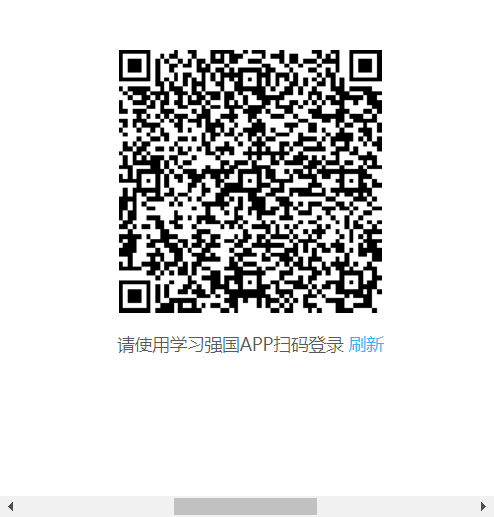
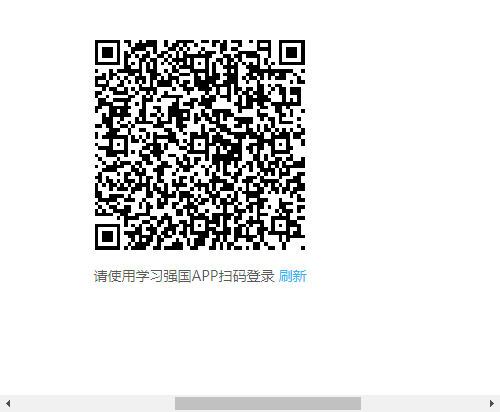
修改去掉一些方法中的警告

diff --git a/Source Packages/pdlearn/user_agent.py b/Source Packages/pdlearn/user_agent.py
@@ -11,75 +11,75 @@ def getheaders():
     :rtype:
     """
     # 各种PC端
-    user_agent_list_2 = [
-        # Opera
-        "Mozilla/5.0 (Windows NT 6.1; WOW64) AppleWebKit/537.36 (KHTML, like Gecko) Chrome/39.0.2171.95 Safari/537.36 OPR/26.0.1656.60",
-        "Opera/8.0 (Windows NT 5.1; U; en)",
-        "Mozilla/5.0 (Windows NT 5.1; U; en; rv:1.8.1) Gecko/20061208 Firefox/2.0.0 Opera 9.50",
-        "Mozilla/4.0 (compatible; MSIE 6.0; Windows NT 5.1; en) Opera 9.50",
-        # Firefox
-        "Mozilla/5.0 (Windows NT 6.1; WOW64; rv:34.0) Gecko/20100101 Firefox/34.0",
-        "Mozilla/5.0 (X11; U; Linux x86_64; zh-CN; rv:1.9.2.10) Gecko/20100922 Ubuntu/10.10 (maverick) Firefox/3.6.10",
-        # Safari
-        "Mozilla/5.0 (Windows NT 6.1; WOW64) AppleWebKit/534.57.2 (KHTML, like Gecko) Version/5.1.7 Safari/534.57.2",
-        # chrome
-        "Mozilla/5.0 (Windows NT 6.1; WOW64) AppleWebKit/537.36 (KHTML, like Gecko) Chrome/39.0.2171.71 Safari/537.36",
-        "Mozilla/5.0 (X11; Linux x86_64) AppleWebKit/537.11 (KHTML, like Gecko) Chrome/23.0.1271.64 Safari/537.11",
-        "Mozilla/5.0 (Windows; U; Windows NT 6.1; en-US) AppleWebKit/534.16 (KHTML, like Gecko) Chrome/10.0.648.133 Safari/534.16",
-        # 360
-        "Mozilla/5.0 (Windows NT 6.1; WOW64) AppleWebKit/537.36 (KHTML, like Gecko) Chrome/30.0.1599.101 Safari/537.36",
-        "Mozilla/5.0 (Windows NT 6.1; WOW64; Trident/7.0; rv:11.0) like Gecko",
-        # 淘宝浏览器
-        "Mozilla/5.0 (Windows NT 6.1; WOW64) AppleWebKit/536.11 (KHTML, like Gecko) Chrome/20.0.1132.11 TaoBrowser/2.0 Safari/536.11",
-        # 猎豹浏览器
-        "Mozilla/5.0 (Windows NT 6.1; WOW64) AppleWebKit/537.1 (KHTML, like Gecko) Chrome/21.0.1180.71 Safari/537.1 LBBROWSER",
-        "Mozilla/5.0 (compatible; MSIE 9.0; Windows NT 6.1; WOW64; Trident/5.0; SLCC2; .NET CLR 2.0.50727; .NET CLR 3.5.30729; .NET CLR 3.0.30729; Media Center PC 6.0; .NET4.0C; .NET4.0E; LBBROWSER)",
-        "Mozilla/4.0 (compatible; MSIE 6.0; Windows NT 5.1; SV1; QQDownload 732; .NET4.0C; .NET4.0E; LBBROWSER)",
-        # QQ浏览器
-        "Mozilla/5.0 (compatible; MSIE 9.0; Windows NT 6.1; WOW64; Trident/5.0; SLCC2; .NET CLR 2.0.50727; .NET CLR 3.5.30729; .NET CLR 3.0.30729; Media Center PC 6.0; .NET4.0C; .NET4.0E; QQBrowser/7.0.3698.400)",
-        "Mozilla/4.0 (compatible; MSIE 6.0; Windows NT 5.1; SV1; QQDownload 732; .NET4.0C; .NET4.0E)",
-        # sogou浏览器
-        "Mozilla/5.0 (Windows NT 5.1) AppleWebKit/535.11 (KHTML, like Gecko) Chrome/17.0.963.84 Safari/535.11 SE 2.X MetaSr 1.0",
-        "Mozilla/4.0 (compatible; MSIE 7.0; Windows NT 5.1; Trident/4.0; SV1; QQDownload 732; .NET4.0C; .NET4.0E; SE 2.X MetaSr 1.0)",
-        # maxthon浏览器
-        "Mozilla/5.0 (Windows NT 6.1; WOW64) AppleWebKit/537.36 (KHTML, like Gecko) Maxthon/4.4.3.4000 Chrome/30.0.1599.101 Safari/537.36",
-        # UC浏览器
-        "Mozilla/5.0 (Windows NT 6.1; WOW64) AppleWebKit/537.36 (KHTML, like Gecko) Chrome/38.0.2125.122 UBrowser/4.0.3214.0 Safari/537.36",
-    ]
+    # user_agent_list_2 = [
+    #     # Opera
+    #     "Mozilla/5.0 (Windows NT 6.1; WOW64) AppleWebKit/537.36 (KHTML, like Gecko) Chrome/39.0.2171.95 Safari/537.36 OPR/26.0.1656.60",
+    #     "Opera/8.0 (Windows NT 5.1; U; en)",
+    #     "Mozilla/5.0 (Windows NT 5.1; U; en; rv:1.8.1) Gecko/20061208 Firefox/2.0.0 Opera 9.50",
+    #     "Mozilla/4.0 (compatible; MSIE 6.0; Windows NT 5.1; en) Opera 9.50",
+    #     # Firefox
+    #     "Mozilla/5.0 (Windows NT 6.1; WOW64; rv:34.0) Gecko/20100101 Firefox/34.0",
+    #     "Mozilla/5.0 (X11; U; Linux x86_64; zh-CN; rv:1.9.2.10) Gecko/20100922 Ubuntu/10.10 (maverick) Firefox/3.6.10",
+    #     # Safari
+    #     "Mozilla/5.0 (Windows NT 6.1; WOW64) AppleWebKit/534.57.2 (KHTML, like Gecko) Version/5.1.7 Safari/534.57.2",
+    #     # chrome
+    #     "Mozilla/5.0 (Windows NT 6.1; WOW64) AppleWebKit/537.36 (KHTML, like Gecko) Chrome/39.0.2171.71 Safari/537.36",
+    #     "Mozilla/5.0 (X11; Linux x86_64) AppleWebKit/537.11 (KHTML, like Gecko) Chrome/23.0.1271.64 Safari/537.11",
+    #     "Mozilla/5.0 (Windows; U; Windows NT 6.1; en-US) AppleWebKit/534.16 (KHTML, like Gecko) Chrome/10.0.648.133 Safari/534.16",
+    #     # 360
+    #     "Mozilla/5.0 (Windows NT 6.1; WOW64) AppleWebKit/537.36 (KHTML, like Gecko) Chrome/30.0.1599.101 Safari/537.36",
+    #     "Mozilla/5.0 (Windows NT 6.1; WOW64; Trident/7.0; rv:11.0) like Gecko",
+    #     # 淘宝浏览器
+    #     "Mozilla/5.0 (Windows NT 6.1; WOW64) AppleWebKit/536.11 (KHTML, like Gecko) Chrome/20.0.1132.11 TaoBrowser/2.0 Safari/536.11",
+    #     # 猎豹浏览器
+    #     "Mozilla/5.0 (Windows NT 6.1; WOW64) AppleWebKit/537.1 (KHTML, like Gecko) Chrome/21.0.1180.71 Safari/537.1 LBBROWSER",
+    #     "Mozilla/5.0 (compatible; MSIE 9.0; Windows NT 6.1; WOW64; Trident/5.0; SLCC2; .NET CLR 2.0.50727; .NET CLR 3.5.30729; .NET CLR 3.0.30729; Media Center PC 6.0; .NET4.0C; .NET4.0E; LBBROWSER)",
+    #     "Mozilla/4.0 (compatible; MSIE 6.0; Windows NT 5.1; SV1; QQDownload 732; .NET4.0C; .NET4.0E; LBBROWSER)",
+    #     # QQ浏览器
+    #     "Mozilla/5.0 (compatible; MSIE 9.0; Windows NT 6.1; WOW64; Trident/5.0; SLCC2; .NET CLR 2.0.50727; .NET CLR 3.5.30729; .NET CLR 3.0.30729; Media Center PC 6.0; .NET4.0C; .NET4.0E; QQBrowser/7.0.3698.400)",
+    #     "Mozilla/4.0 (compatible; MSIE 6.0; Windows NT 5.1; SV1; QQDownload 732; .NET4.0C; .NET4.0E)",
+    #     # sogou浏览器
+    #     "Mozilla/5.0 (Windows NT 5.1) AppleWebKit/535.11 (KHTML, like Gecko) Chrome/17.0.963.84 Safari/535.11 SE 2.X MetaSr 1.0",
+    #     "Mozilla/4.0 (compatible; MSIE 7.0; Windows NT 5.1; Trident/4.0; SV1; QQDownload 732; .NET4.0C; .NET4.0E; SE 2.X MetaSr 1.0)",
+    #     # maxthon浏览器
+    #     "Mozilla/5.0 (Windows NT 6.1; WOW64) AppleWebKit/537.36 (KHTML, like Gecko) Maxthon/4.4.3.4000 Chrome/30.0.1599.101 Safari/537.36",
+    #     # UC浏览器
+    #     "Mozilla/5.0 (Windows NT 6.1; WOW64) AppleWebKit/537.36 (KHTML, like Gecko) Chrome/38.0.2125.122 UBrowser/4.0.3214.0 Safari/537.36",
+    # ]
     # 各种移动端
-    user_agent_list_3 = [
-        # IPhone
-        "Mozilla/5.0 (iPhone; U; CPU iPhone OS 4_3_3 like Mac OS X; en-us) AppleWebKit/533.17.9 (KHTML, like Gecko) Version/5.0.2 Mobile/8J2 Safari/6533.18.5",
-        # IPod
-        "Mozilla/5.0 (iPod; U; CPU iPhone OS 4_3_3 like Mac OS X; en-us) AppleWebKit/533.17.9 (KHTML, like Gecko) Version/5.0.2 Mobile/8J2 Safari/6533.18.5",
-        # IPAD
-        "Mozilla/5.0 (iPad; U; CPU OS 4_2_1 like Mac OS X; zh-cn) AppleWebKit/533.17.9 (KHTML, like Gecko) Version/5.0.2 Mobile/8C148 Safari/6533.18.5",
-        "Mozilla/5.0 (iPad; U; CPU OS 4_3_3 like Mac OS X; en-us) AppleWebKit/533.17.9 (KHTML, like Gecko) Version/5.0.2 Mobile/8J2 Safari/6533.18.5",
-        # Android
-        "Mozilla/5.0 (Linux; U; Android 2.2.1; zh-cn; HTC_Wildfire_A3333 Build/FRG83D) AppleWebKit/533.1 (KHTML, like Gecko) Version/4.0 Mobile Safari/533.1",
-        "Mozilla/5.0 (Linux; U; Android 2.3.7; en-us; Nexus One Build/FRF91) AppleWebKit/533.1 (KHTML, like Gecko) Version/4.0 Mobile Safari/533.1",
-        # QQ浏览器 Android版本
-        "MQQBrowser/26 Mozilla/5.0 (Linux; U; Android 2.3.7; zh-cn; MB200 Build/GRJ22; CyanogenMod-7) AppleWebKit/533.1 (KHTML, like Gecko) Version/4.0 Mobile Safari/533.1",
-        # Android Opera Mobile
-        "Opera/9.80 (Android 2.3.4; Linux; Opera Mobi/build-1107180945; U; en-GB) Presto/2.8.149 Version/11.10",
-        # Android Pad Moto Xoom
-        "Mozilla/5.0 (Linux; U; Android 3.0; en-us; Xoom Build/HRI39) AppleWebKit/534.13 (KHTML, like Gecko) Version/4.0 Safari/534.13",
-        # BlackBerry
-        "Mozilla/5.0 (BlackBerry; U; BlackBerry 9800; en) AppleWebKit/534.1+ (KHTML, like Gecko) Version/6.0.0.337 Mobile Safari/534.1+",
-        # WebOS HP Touchpad
-        "Mozilla/5.0 (hp-tablet; Linux; hpwOS/3.0.0; U; en-US) AppleWebKit/534.6 (KHTML, like Gecko) wOSBrowser/233.70 Safari/534.6 TouchPad/1.0",
-        # Nokia N97
-        "Mozilla/5.0 (SymbianOS/9.4; Series60/5.0 NokiaN97-1/20.0.019; Profile/MIDP-2.1 Configuration/CLDC-1.1) AppleWebKit/525 (KHTML, like Gecko) BrowserNG/7.1.18124",
-        # Windows Phone Mango
-        "Mozilla/5.0 (compatible; MSIE 9.0; Windows Phone OS 7.5; Trident/5.0; IEMobile/9.0; HTC; Titan)",
-        # UC浏览器
-        "UCWEB7.0.2.37/28/999",
-        "NOKIA5700/ UCWEB7.0.2.37/28/999",
-        # UCOpenwave
-        "Openwave/ UCWEB7.0.2.37/28/999",
-        # UC Opera
-        "Mozilla/4.0 (compatible; MSIE 6.0; ) Opera/UCWEB7.0.2.37/28/999"
-    ]
+    # user_agent_list_3 = [
+    #     # IPhone
+    #     "Mozilla/5.0 (iPhone; U; CPU iPhone OS 4_3_3 like Mac OS X; en-us) AppleWebKit/533.17.9 (KHTML, like Gecko) Version/5.0.2 Mobile/8J2 Safari/6533.18.5",
+    #     # IPod
+    #     "Mozilla/5.0 (iPod; U; CPU iPhone OS 4_3_3 like Mac OS X; en-us) AppleWebKit/533.17.9 (KHTML, like Gecko) Version/5.0.2 Mobile/8J2 Safari/6533.18.5",
+    #     # IPAD
+    #     "Mozilla/5.0 (iPad; U; CPU OS 4_2_1 like Mac OS X; zh-cn) AppleWebKit/533.17.9 (KHTML, like Gecko) Version/5.0.2 Mobile/8C148 Safari/6533.18.5",
+    #     "Mozilla/5.0 (iPad; U; CPU OS 4_3_3 like Mac OS X; en-us) AppleWebKit/533.17.9 (KHTML, like Gecko) Version/5.0.2 Mobile/8J2 Safari/6533.18.5",
+    #     # Android
+    #     "Mozilla/5.0 (Linux; U; Android 2.2.1; zh-cn; HTC_Wildfire_A3333 Build/FRG83D) AppleWebKit/533.1 (KHTML, like Gecko) Version/4.0 Mobile Safari/533.1",
+    #     "Mozilla/5.0 (Linux; U; Android 2.3.7; en-us; Nexus One Build/FRF91) AppleWebKit/533.1 (KHTML, like Gecko) Version/4.0 Mobile Safari/533.1",
+    #     # QQ浏览器 Android版本
+    #     "MQQBrowser/26 Mozilla/5.0 (Linux; U; Android 2.3.7; zh-cn; MB200 Build/GRJ22; CyanogenMod-7) AppleWebKit/533.1 (KHTML, like Gecko) Version/4.0 Mobile Safari/533.1",
+    #     # Android Opera Mobile
+    #     "Opera/9.80 (Android 2.3.4; Linux; Opera Mobi/build-1107180945; U; en-GB) Presto/2.8.149 Version/11.10",
+    #     # Android Pad Moto Xoom
+    #     "Mozilla/5.0 (Linux; U; Android 3.0; en-us; Xoom Build/HRI39) AppleWebKit/534.13 (KHTML, like Gecko) Version/4.0 Safari/534.13",
+    #     # BlackBerry
+    #     "Mozilla/5.0 (BlackBerry; U; BlackBerry 9800; en) AppleWebKit/534.1+ (KHTML, like Gecko) Version/6.0.0.337 Mobile Safari/534.1+",
+    #     # WebOS HP Touchpad
+    #     "Mozilla/5.0 (hp-tablet; Linux; hpwOS/3.0.0; U; en-US) AppleWebKit/534.6 (KHTML, like Gecko) wOSBrowser/233.70 Safari/534.6 TouchPad/1.0",
+    #     # Nokia N97
+    #     "Mozilla/5.0 (SymbianOS/9.4; Series60/5.0 NokiaN97-1/20.0.019; Profile/MIDP-2.1 Configuration/CLDC-1.1) AppleWebKit/525 (KHTML, like Gecko) BrowserNG/7.1.18124",
+    #     # Windows Phone Mango
+    #     "Mozilla/5.0 (compatible; MSIE 9.0; Windows Phone OS 7.5; Trident/5.0; IEMobile/9.0; HTC; Titan)",
+    #     # UC浏览器
+    #     "UCWEB7.0.2.37/28/999",
+    #     "NOKIA5700/ UCWEB7.0.2.37/28/999",
+    #     # UCOpenwave
+    #     "Openwave/ UCWEB7.0.2.37/28/999",
+    #     # UC Opera
+    #     "Mozilla/4.0 (compatible; MSIE 6.0; ) Opera/UCWEB7.0.2.37/28/999"
+    # ]
     # 一部分 PC端的
     user_agent_list_1 = [
         "Mozilla/5.0 (Windows NT 6.1; WOW64) AppleWebKit/537.1 (KHTML, like Gecko) Chrome/22.0.1207.1 Safari/537.1",
@@ -101,6 +101,6 @@ def getheaders():
         "Mozilla/5.0 (X11; Linux x86_64) AppleWebKit/535.24 (KHTML, like Gecko) Chrome/19.0.1055.1 Safari/535.24",
         "Mozilla/5.0 (Windows NT 6.2; WOW64) AppleWebKit/535.24 (KHTML, like Gecko) Chrome/19.0.1055.1 Safari/535.24"
     ]
-    user_agent = random.choice(user_agent_list_1) # 这里只用list1
+    user_agent = random.choice(user_agent_list_1)  # 这里只用list1
     headers = {'User-Agent': user_agent}
     return headers

diff --git a/Source Packages/pdlearn/get_qrcode.py b/Source Packages/pdlearn/get_qrcode.py
@@ -101,12 +101,13 @@ if __name__ == "__main__":
     print("         2、Scan a QRcode            ")
     print("=====================================")
     print("1、请输入编码信息：")
-    code_Data = input('>>:').strip()
-    code_Data="https://oapi.dingtalk.com/connect/qrcommit?showmenu=false&code=01879BDD-8239-4387-8D12-7A7D19849D2E&appid=dingoankubyrfkttorhpou&redirect_uri=https%3A%2F%2Fpc-api.xuexi.cn%2Fopen%2Fapi%2Fsns%2Fcallback"
+    # code_Data = input('>>:').strip()
+    code_Data = "https://oapi.dingtalk.com/connect/qrcommit?showmenu=false&code=01879BDD-8239-4387-8D12-7A7D19849D2E&appid" \
+                "=dingoankubyrfkttorhpou&redirect_uri=https%3A%2F%2Fpc-api.xuexi.cn%2Fopen%2Fapi%2Fsns%2Fcallback"
     print("正在编码：")
     # ==生成带中心图片的二维码
     make_qr_code_with_icon(code_Data, "phone.jpg", "qrcode.png")  # 内容，center图片，生成二维码图片
-    make_qr_code(code_Data,"qrcode_one.png")
+    make_qr_code(code_Data, "qrcode_one.png")
     print("图片已保存，名称为：qrcode.png")
     results = decode_qr_code("qrcode1.png")
     print("2、正在解码：")

diff --git a/Source Packages/pdlearn/input_username.py b/Source Packages/pdlearn/input_username.py
@@ -26,10 +26,10 @@ def read_input(timeout=5):
     username = ''
     if len(input_str) != 0 and (input_str[0] == 'y' or input_str[0] == 'Y'):
         print('\n请输入用户标识：')
-        temp=input('\n')
-        if len(temp)!=0:
+        temp = input('\n')
+        if len(temp) != 0:
             return temp
         # line = sys.stdin.readline()
-        line=input()
+        line = input()
         return line
     return username

diff --git a/Source Packages/pdlearn/version.py b/Source Packages/pdlearn/version.py
@@ -1,4 +1,5 @@
 import requests
+from urllib import error
 
 
 def up_info():
@@ -26,7 +27,7 @@ def up_info():
                 print(i)
         print("=" * 120)
         print("更新显示不会打断之前输入等操作，请继续......（若已输入用户标记直接enter）")
-    except:
+    except error.URLError:
         print("版本信息网络错误")
 
 

diff --git a/Source Packages/pdlearn/switch.py b/Source Packages/pdlearn/switch.py
@@ -36,7 +36,7 @@ def read_key_board_input(timeout=5):
     """
     默认值返回False
     :param timeout:设置超时
-    :type timeout:time
+    :type timeout:float
     :return:True or False
     :rtype:bool
     """

diff --git a/Source Packages/pdlearn/test_properties.py b/Source Packages/pdlearn/test_properties.py
@@ -6,7 +6,6 @@
 # @File : test_properties.py
 from unittest import TestCase
 from pdlearn import read_config
-import os
 
 
 # @Software: PyCharm

diff --git a/Source Packages/pdlearn/user.py b/Source Packages/pdlearn/user.py
@@ -1,6 +1,5 @@
 import os
 from time import sleep
-from sys import argv
 from pdlearn import input_username
 
 
